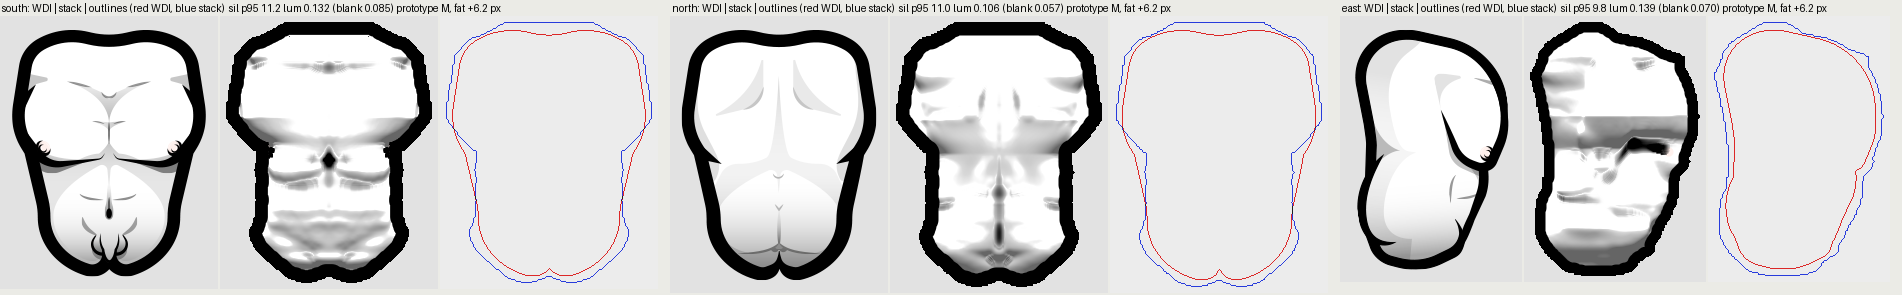
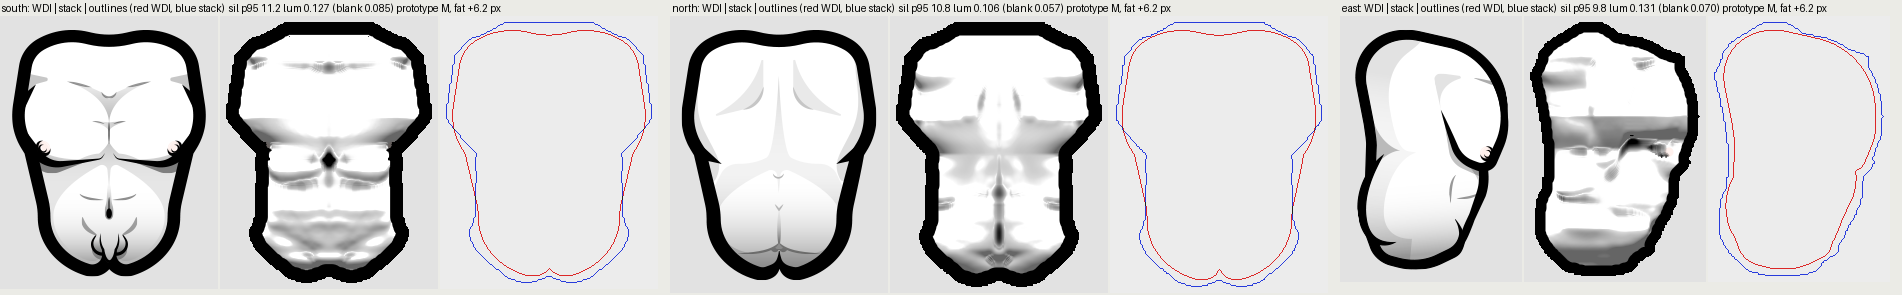
Body 3D: arm stump removed from the trunk stack (ghost arm); prototype M v5
M v5: muscle 32.0 %, fat 23 %, bone 7.2 %, viscera 34.2 % of the torso mass.

diff --git a/Art/work/transfer-proto/fable-crack/stack3d.py b/Art/work/transfer-proto/fable-crack/stack3d.py
@@ -510,8 +510,8 @@ def build_male(G, T, prm=MALE, ty=None):
     add_raw(S, "viscera", "viscera", vsl, vd, colour=COL["visc"])
     S.mark("core")
 
-    # ---- deep masses: arm stump, and the WDI dome above the clavicle and the scapular spine (neck base, upper trapezius)
-    S.add("arm stump (humerus muscles)", "muscle", ell((81, 278, 251), (11.5, 27, 16)), k=2.0, colour=COL["arm"])
+    # ---- deep masses: the WDI dome above the clavicle and the scapular spine (neck base, upper trapezius). The arm stump
+    # (humerus muscles) was removed 2026-11-17 with the deltoid (Virginie): it belongs to the ghost arm.
     # base of the neck inside the sprite (scalenes, the feet of the sternocleidomastoids): the neck is cut just above it
     S.add("neck root", "muscle", ell((0, 212, 262), (38, 20, 38), rad2=(38, 36, 30)), k=4.0, colour=COL["neck"])
     # upper trapezius: the slope from the side of the neck down to the acromion and the spine of the scapula
